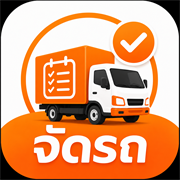
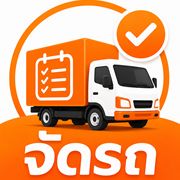
delivery-queue v9.58: ครอปไอคอนตัดขอบดำออก
- ครอปเข้า 90px (7.2%) แต่ละด้าน ตัดกรอบมนสีดำรอบไอคอนออก (มุมขาวสะอาด)
- เขียนทับ dq-icon.png(512)/dq-icon-192/dq-icon-180 (จาก dq-logo-src.png)
- bump cache-bust ?v=956 -> ?v=958 (favicon/apple-touch/manifest) ให้เครื่องดึงรูปใหม่

diff --git a/delivery-queue-app.html b/delivery-queue-app.html
@@ -9,9 +9,9 @@
 <meta name="theme-color" content="#0d1b3e"/>
 <meta name="application-name" content="จัดคิวรถ"/>
 <meta name="apple-mobile-web-app-title" content="จัดคิวรถ"/>
-<link rel="icon" type="image/png" href="https://rattanaphaiboon.github.io/app/dq-icon.png?v=956"/>
-<link rel="apple-touch-icon" href="https://rattanaphaiboon.github.io/app/dq-icon-180.png?v=956"/>
[1 lines of base64/hex data omitted]
+<link rel="icon" type="image/png" href="https://rattanaphaiboon.github.io/app/dq-icon.png?v=958"/>
+<link rel="apple-touch-icon" href="https://rattanaphaiboon.github.io/app/dq-icon-180.png?v=958"/>
[1 lines of base64/hex data omitted]
 <link href="https://fonts.googleapis.com/css2?family=Kanit:wght@300;400;500;600;700;800&display=swap" rel="stylesheet"/>
 <link rel="stylesheet" href="https://cdnjs.cloudflare.com/ajax/libs/leaflet/1.9.4/leaflet.min.css"/>
 <script src="https://cdnjs.cloudflare.com/ajax/libs/leaflet/1.9.4/leaflet.min.js"></script>
@@ -586,7 +586,7 @@ body.dragging .trip-drop{border-style:dashed!important;animation:pulse-glow 1.2s
   <div class="topnav-inner">
     <div class="logo-box">🚛</div>
     <div class="logo-text">
-      <div class="logo-title">จัดคิวรถส่งสินค้า <span class="app-version">v9.57</span></div>
+      <div class="logo-title">จัดคิวรถส่งสินค้า <span class="app-version">v9.58</span></div>
       <div class="logo-sub"></div>
     </div>
     <div class="nav-tabs">
